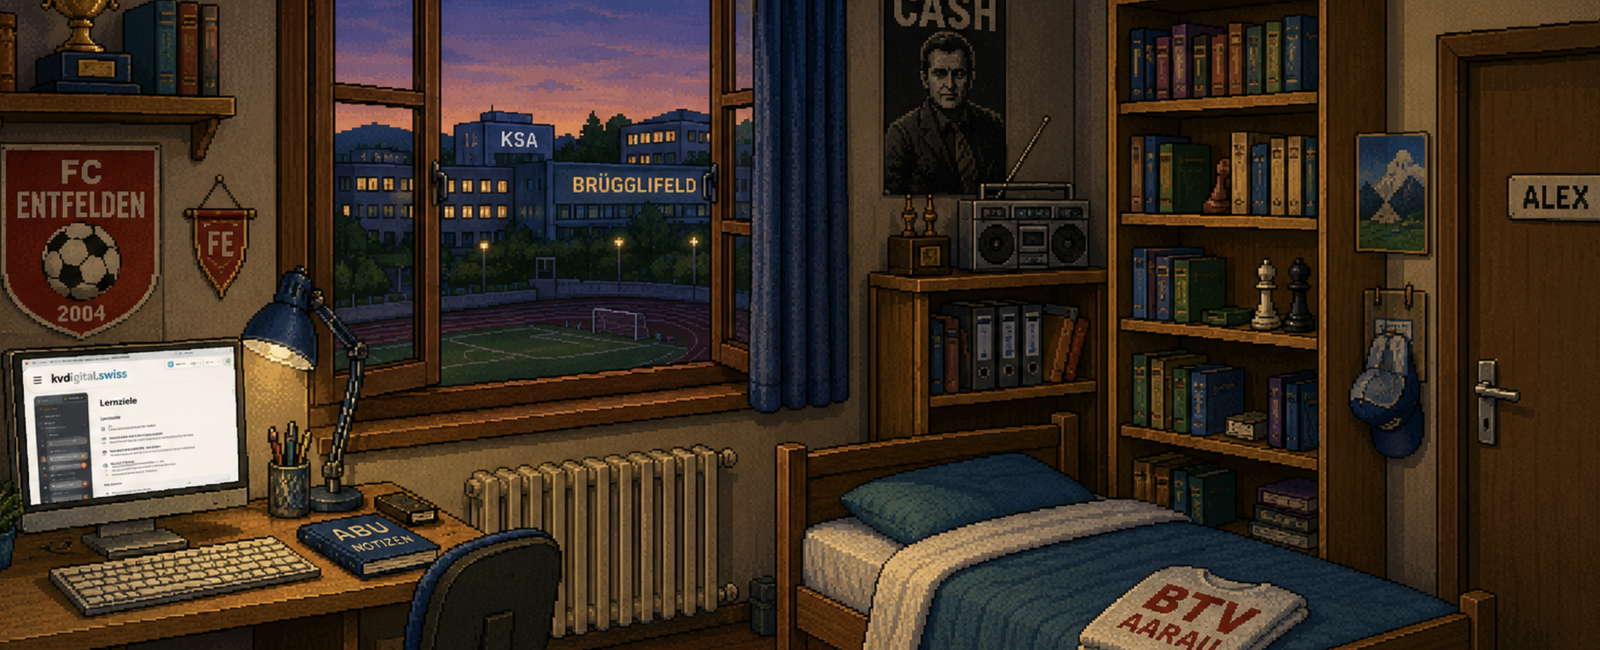
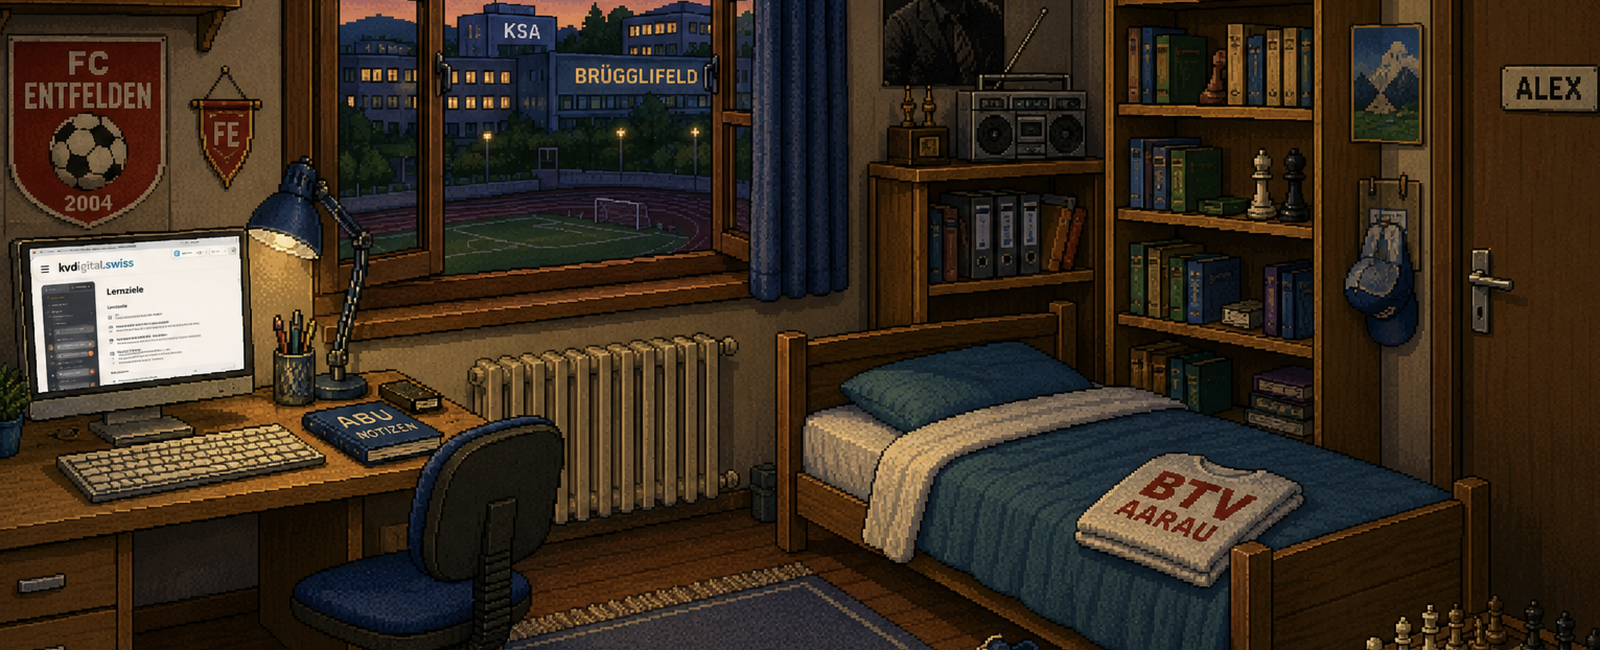
Neues Zimmer (gezoomt, Band B), alle Hotspots verlegt; v17

diff --git a/kaufvertrag_demo.html b/kaufvertrag_demo.html
@@ -473,33 +473,33 @@ laden:[
     a:{ anschauen:'Die Uhr tickt. Fristen laufen – das merken Sie sich für später.' } },
 ],
 zimmer:[
-  { id:'computer', name:'Computer', x:4,y:140,w:100,h:110,
+  { id:'computer', name:'Computer', x:0,y:92,w:110,h:120,
     a:{ anschauen:'Auf dem Bildschirm: <b>kvdigital.swiss</b>, Kapitel «Lernziele». Alex lernt sogar abends um zehn. Respekt – oder Prüfungspanik.',
         benutze:'Nicht jetzt. Erst der Fall, dann die Lernziele. (Die Reihenfolge ist didaktisch umstritten.)' } },
-  { id:'fenster', name:'Fenster', x:120,y:0,w:190,h:166,
+  { id:'fenster', name:'Fenster', x:110,y:0,w:184,h:134,
     a:{ anschauen:'Draussen leuchtet das <b>Brügglifeld</b>, dahinter die KSA. Alex wohnt mit Aussicht auf Fussball und Bildung – die Prioritäten bleiben Verhandlungssache.',
         oeffne:'Zu kalt. Und Ihr Problem fliegt nicht davon.' } },
-  { id:'cash', name:'Poster', x:348,y:0,w:64,h:128,
+  { id:'cash', name:'Poster', x:346,y:0,w:40,h:22,
     fund:{ verb:'anschauen', rq:1, text:'Ein Poster von <b>Johnny Cash</b>. Der Mann wusste alles über Schulden, Reue und zweite Chancen – der inoffizielle Schutzpatron des Obligationenrechts.' },
     a:{ anschauen:'Ein Poster in Schwarz-Weiss. Der Blick: streng, aber gerecht.' } },
-  { id:'radio', name:'Radiorekorder', x:384,y:128,w:56,h:42,
+  { id:'radio', name:'Radiorekorder', x:380,y:24,w:64,h:38,
     a:{ anschauen:'Ein Radiorekorder, Baujahr Occasion. Etwa von Meier &amp; Co.? Die Kassettenklappe klemmt jedenfalls stilecht.',
         benutze:'Play. In Ihrer Fantasie erklingt ein Vier-Stimmen-Tracker-Modul. Grossartig.' } },
-  { id:'gestell', name:'Büchergestell', x:444,y:0,w:92,h:248,
+  { id:'gestell', name:'Büchergestell', x:444,y:0,w:110,h:178,
     a:{ anschauen:'Ordner, Bücher, zwei Schachfiguren als Wache – und «Schach-Strategien» griffbereit. Wer vorausdenkt, gewinnt. Auch im Vertragsrecht.',
         nimm:'Die Bücher gehören Ihnen schon. Eigentum verpflichtet – zum Lesen.' } },
-  { id:'tuer', name:'Zimmertür', x:570,y:8,w:70,h:240,
+  { id:'tuer', name:'Zimmertür', x:572,y:0,w:68,h:260,
     a:{ anschauen:'«ALEX» steht am Türschild. Ihr Reich – hier werden Rechtsfälle gelöst und Matratzen getestet.',
         oeffne:'Sie bleiben. Der Fall liegt hier drin, nicht draussen.' } },
-  { id:'bett', name:'Bett', x:320,y:172,w:200,h:76,
+  { id:'bett', name:'Bett', x:320,y:110,w:262,h:150,
     a:{ anschauen:'Auf dem Bett liegt das Leibchen des <b>BTV Aarau</b>, frisch gefaltet. Training ist morgen – zuerst das Recht.',
         benutze:'Jetzt schlafen? Der Fall ruft!' } },
-  { id:'abubuch', name:'ABU-Notizen', x:238,y:202,w:74,h:32,
+  { id:'abubuch', name:'ABU-Notizen', x:116,y:164,w:58,h:34,
     a:{ anschauen:'«ABU-Notizen», prall gefüllt. Irgendwo darin: das Kapitel Kaufvertrag, markiert in drei Leuchtfarben.',
         benutze:'Sie blättern kurz. «Einigung über Sache und Preis …» – sitzt.' } },
-  { id:'wimpel', name:'Vereinswappen', x:0,y:48,w:92,h:94,
+  { id:'wimpel', name:'Vereinswappen', x:2,y:16,w:76,h:84,
     a:{ anschauen:'Das Wappen des <b>FC Entfelden</b>, dazu ein Wimpel. Loyalität kennt keine Ligagrenzen.' } },
-  { id:'heizung', name:'Radiator', x:186,y:174,w:112,h:58,
+  { id:'heizung', name:'Radiator', x:188,y:130,w:104,h:84,
     a:{ anschauen:'Ein Radiator mit Charakter. Er knackt nachts – aber anders als beim E-Bike ist das hier kein Mangel, sondern Ambiance.',
         benutze:'Sie wärmen kurz die Hände. Gemütlich. Löst aber keinen Verzug.' } },
 ],
@@ -513,12 +513,12 @@ weiche:[
   { id:'tuerM', name:'Zimmer 3', x:492,y:18,w:80,h:184,
     a:{ anschauen:'Zimmer 3. Hinter dieser Tür: ein nagelneues Occasionsgerät mit einem Knacks. (Wählen Sie unten Ihren Weg.)',
         oeffne:'Die Türen öffnen sich über die Auswahl unten – das ist schliesslich Ihr Traum, nicht Ihre Prüfung.' } },
-  { id:'banner', name:'HKV-Banner', x:234,y:68,w:46,h:145,
+  { id:'banner', name:'HKV-Banner', x:0,y:259,w:1,h:1,
     a:{ anschauen:'Das Banner der <b>HKV Aarau</b>, mit Wappen und Gründungsjahr. Selbst im Traum hängt es kerzengerade.' } },
-  { id:'bank', name:'Sitzbank', x:10,y:158,w:92,h:86,
+  { id:'bank', name:'Sitzbank', x:1,y:259,w:1,h:1,
     a:{ anschauen:'Die Holzbank vor den Zimmern. Generationen von Lernenden haben hier auf Prüfungsresultate gewartet. Man sieht es ihr an.',
         benutze:'Kurz hinsetzen? Nein – Ihr Rechtsfall wartet nicht.' } },
-  { id:'pflanze', name:'Chuck', x:86,y:120,w:36,h:88,
+  { id:'pflanze', name:'Chuck', x:0,y:144,w:26,h:42,
     a:{ anschauen:'Das ist <b>Chuck die Pflanze</b>. Chuck steht in jedem guten Adventure herum – warum also nicht im HKV-Gang? Er überlebt Semesterferien, Hitzewellen und Znüni-Krümel.',
         redemit:'«Und, Chuck?» – Chuck schweigt vielsagend. Wie immer, seit 1987.',
         nimm:'Chuck bleibt hier. Chuck bleibt <b>immer</b> hier.',
@@ -834,7 +834,7 @@ ende: pxSzene('#000010', (R,D)=>{
    Liegen im Repo PNGs mit diesen Namen, werden sie automatisch
    statt der Pixel-Programme geladen. Fehlen sie: Pixel-Fallback.
    ===================================================== */
-const BILD_VERSION = '16';
+const BILD_VERSION = '17';
 function vurl(u){ return u + '?v=' + BILD_VERSION; }
 const SZENEN_BILDER = {
   front:'kaufvertrag_front.png',  laden:'kaufvertrag_laden.png',

diff --git a/kaufvertrag_fd642d69.html b/kaufvertrag_fd642d69.html
@@ -474,33 +474,33 @@ laden:[
     a:{ anschauen:'Die Uhr tickt. Fristen laufen – das merken Sie sich für später.' } },
 ],
 zimmer:[
-  { id:'computer', name:'Computer', x:4,y:140,w:100,h:110,
+  { id:'computer', name:'Computer', x:0,y:92,w:110,h:120,
     a:{ anschauen:'Auf dem Bildschirm: <b>kvdigital.swiss</b>, Kapitel «Lernziele». Alex lernt sogar abends um zehn. Respekt – oder Prüfungspanik.',
         benutze:'Nicht jetzt. Erst der Fall, dann die Lernziele. (Die Reihenfolge ist didaktisch umstritten.)' } },
-  { id:'fenster', name:'Fenster', x:120,y:0,w:190,h:166,
+  { id:'fenster', name:'Fenster', x:110,y:0,w:184,h:134,
     a:{ anschauen:'Draussen leuchtet das <b>Brügglifeld</b>, dahinter die KSA. Alex wohnt mit Aussicht auf Fussball und Bildung – die Prioritäten bleiben Verhandlungssache.',
         oeffne:'Zu kalt. Und Ihr Problem fliegt nicht davon.' } },
-  { id:'cash', name:'Poster', x:348,y:0,w:64,h:128,
+  { id:'cash', name:'Poster', x:346,y:0,w:40,h:22,
     fund:{ verb:'anschauen', rq:1, text:'Ein Poster von <b>Johnny Cash</b>. Der Mann wusste alles über Schulden, Reue und zweite Chancen – der inoffizielle Schutzpatron des Obligationenrechts.' },
     a:{ anschauen:'Ein Poster in Schwarz-Weiss. Der Blick: streng, aber gerecht.' } },
-  { id:'radio', name:'Radiorekorder', x:384,y:128,w:56,h:42,
+  { id:'radio', name:'Radiorekorder', x:380,y:24,w:64,h:38,
     a:{ anschauen:'Ein Radiorekorder, Baujahr Occasion. Etwa von Meier &amp; Co.? Die Kassettenklappe klemmt jedenfalls stilecht.',
         benutze:'Play. In Ihrer Fantasie erklingt ein Vier-Stimmen-Tracker-Modul. Grossartig.' } },
-  { id:'gestell', name:'Büchergestell', x:444,y:0,w:92,h:248,
+  { id:'gestell', name:'Büchergestell', x:444,y:0,w:110,h:178,
     a:{ anschauen:'Ordner, Bücher, zwei Schachfiguren als Wache – und «Schach-Strategien» griffbereit. Wer vorausdenkt, gewinnt. Auch im Vertragsrecht.',
         nimm:'Die Bücher gehören Ihnen schon. Eigentum verpflichtet – zum Lesen.' } },
-  { id:'tuer', name:'Zimmertür', x:570,y:8,w:70,h:240,
+  { id:'tuer', name:'Zimmertür', x:572,y:0,w:68,h:260,
     a:{ anschauen:'«ALEX» steht am Türschild. Ihr Reich – hier werden Rechtsfälle gelöst und Matratzen getestet.',
         oeffne:'Sie bleiben. Der Fall liegt hier drin, nicht draussen.' } },
-  { id:'bett', name:'Bett', x:320,y:172,w:200,h:76,
+  { id:'bett', name:'Bett', x:320,y:110,w:262,h:150,
     a:{ anschauen:'Auf dem Bett liegt das Leibchen des <b>BTV Aarau</b>, frisch gefaltet. Training ist morgen – zuerst das Recht.',
         benutze:'Jetzt schlafen? Der Fall ruft!' } },
-  { id:'abubuch', name:'ABU-Notizen', x:238,y:202,w:74,h:32,
+  { id:'abubuch', name:'ABU-Notizen', x:116,y:164,w:58,h:34,
     a:{ anschauen:'«ABU-Notizen», prall gefüllt. Irgendwo darin: das Kapitel Kaufvertrag, markiert in drei Leuchtfarben.',
         benutze:'Sie blättern kurz. «Einigung über Sache und Preis …» – sitzt.' } },
-  { id:'wimpel', name:'Vereinswappen', x:0,y:48,w:92,h:94,
+  { id:'wimpel', name:'Vereinswappen', x:2,y:16,w:76,h:84,
     a:{ anschauen:'Das Wappen des <b>FC Entfelden</b>, dazu ein Wimpel. Loyalität kennt keine Ligagrenzen.' } },
-  { id:'heizung', name:'Radiator', x:186,y:174,w:112,h:58,
+  { id:'heizung', name:'Radiator', x:188,y:130,w:104,h:84,
     a:{ anschauen:'Ein Radiator mit Charakter. Er knackt nachts – aber anders als beim E-Bike ist das hier kein Mangel, sondern Ambiance.',
         benutze:'Sie wärmen kurz die Hände. Gemütlich. Löst aber keinen Verzug.' } },
 ],
@@ -514,12 +514,12 @@ weiche:[
   { id:'tuerM', name:'Zimmer 3', x:492,y:18,w:80,h:184,
     a:{ anschauen:'Zimmer 3. Hinter dieser Tür: ein nagelneues Occasionsgerät mit einem Knacks. (Wählen Sie unten Ihren Weg.)',
         oeffne:'Die Türen öffnen sich über die Auswahl unten – das ist schliesslich Ihr Traum, nicht Ihre Prüfung.' } },
-  { id:'banner', name:'HKV-Banner', x:234,y:68,w:46,h:145,
+  { id:'banner', name:'HKV-Banner', x:0,y:259,w:1,h:1,
     a:{ anschauen:'Das Banner der <b>HKV Aarau</b>, mit Wappen und Gründungsjahr. Selbst im Traum hängt es kerzengerade.' } },
-  { id:'bank', name:'Sitzbank', x:10,y:158,w:92,h:86,
+  { id:'bank', name:'Sitzbank', x:1,y:259,w:1,h:1,
     a:{ anschauen:'Die Holzbank vor den Zimmern. Generationen von Lernenden haben hier auf Prüfungsresultate gewartet. Man sieht es ihr an.',
         benutze:'Kurz hinsetzen? Nein – Ihr Rechtsfall wartet nicht.' } },
-  { id:'pflanze', name:'Chuck', x:86,y:120,w:36,h:88,
+  { id:'pflanze', name:'Chuck', x:0,y:144,w:26,h:42,
     a:{ anschauen:'Das ist <b>Chuck die Pflanze</b>. Chuck steht in jedem guten Adventure herum – warum also nicht im HKV-Gang? Er überlebt Semesterferien, Hitzewellen und Znüni-Krümel.',
         redemit:'«Und, Chuck?» – Chuck schweigt vielsagend. Wie immer, seit 1987.',
         nimm:'Chuck bleibt hier. Chuck bleibt <b>immer</b> hier.',
@@ -835,7 +835,7 @@ ende: pxSzene('#000010', (R,D)=>{
    Liegen im Repo PNGs mit diesen Namen, werden sie automatisch
    statt der Pixel-Programme geladen. Fehlen sie: Pixel-Fallback.
    ===================================================== */
-const BILD_VERSION = '16';
+const BILD_VERSION = '17';
 function vurl(u){ return u + '?v=' + BILD_VERSION; }
 const SZENEN_BILDER = {
   front:'kaufvertrag_front.png',  laden:'kaufvertrag_laden.png',
